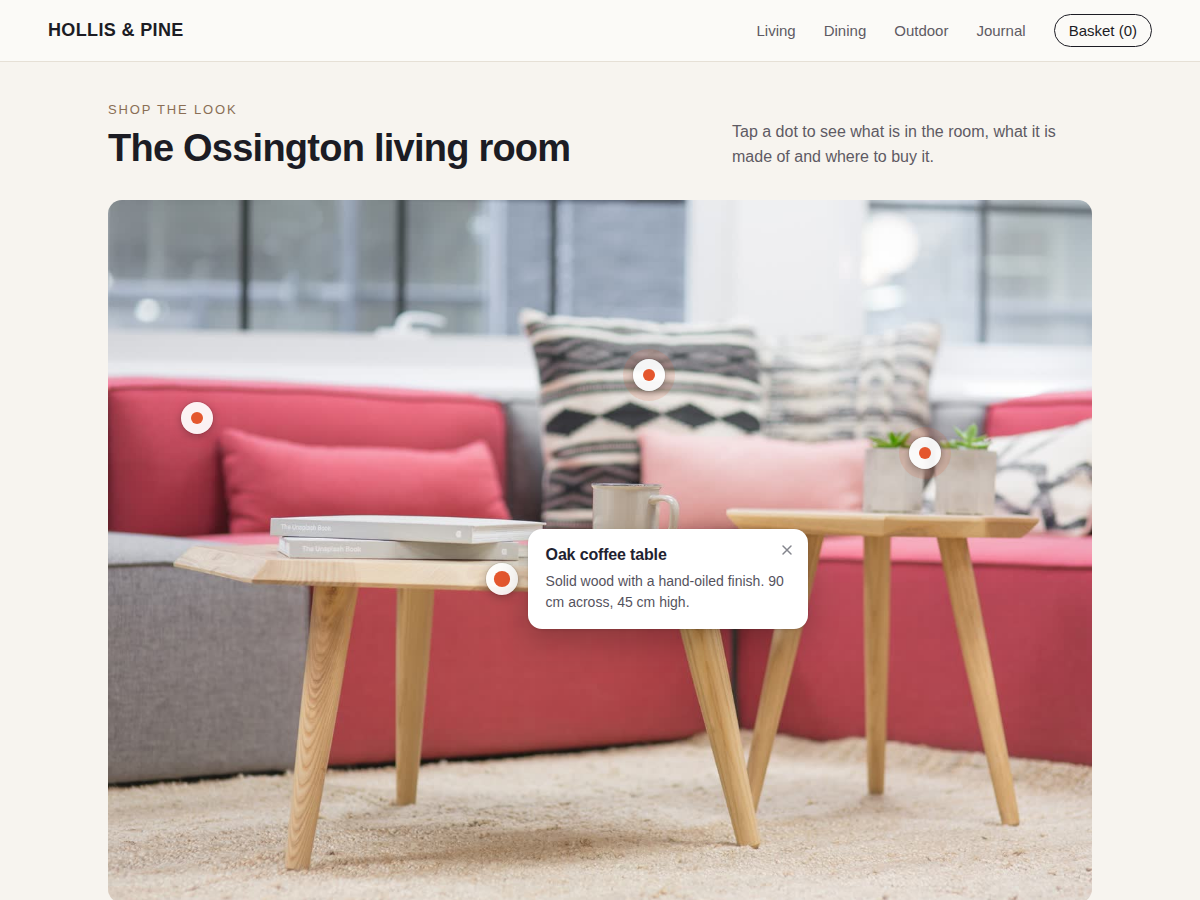
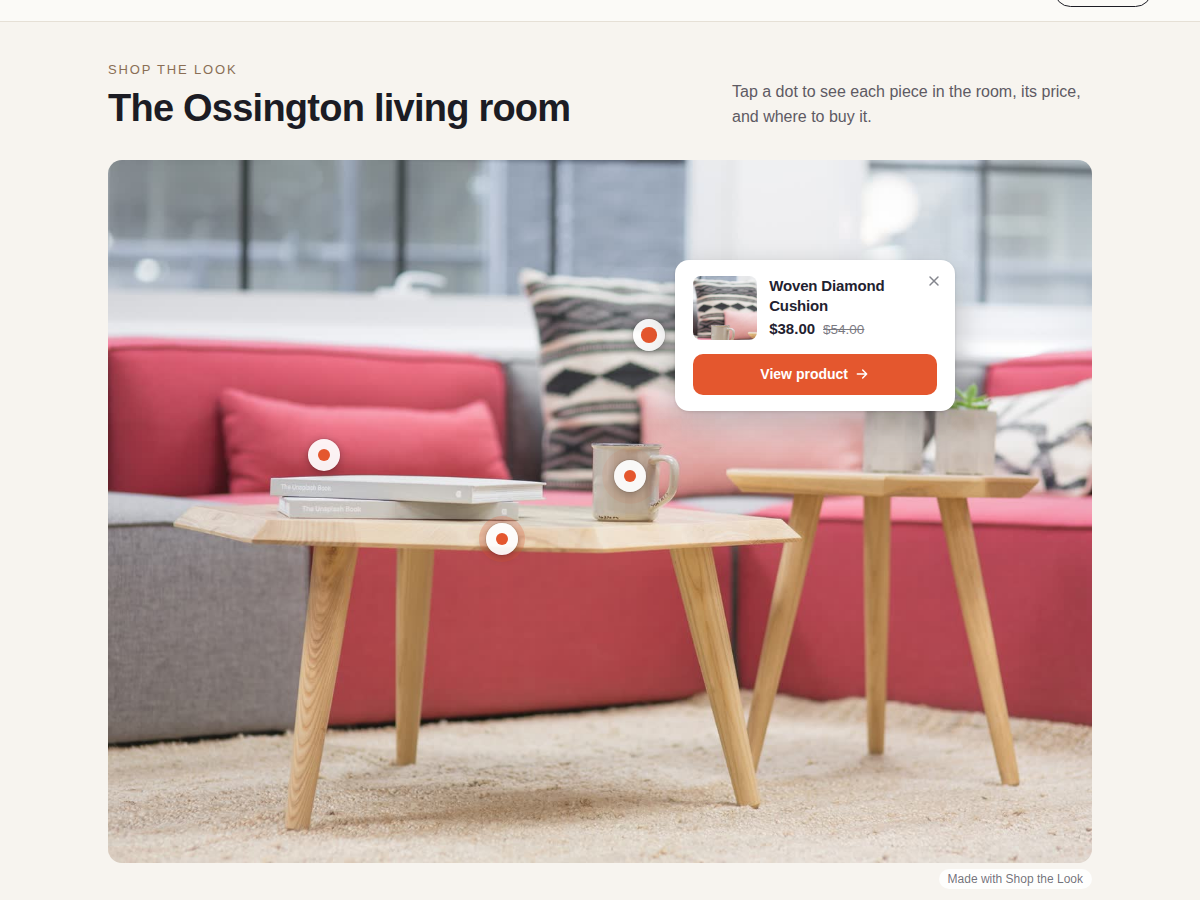
Shop the Look (pinspot): page and legal pages for store-product pins

diff --git a/wix/index.html b/wix/index.html
@@ -20,5 +20,5 @@
 <header><a href="../"><img src="../mark.svg" width="22" height="22" alt="" style="vertical-align:-4px"> Prometheus</a> · <a href="../wix/">Wix apps</a></header>
 <h1>Small Wix apps that fill the gaps</h1>
 <p class="mut">Each one does a single job that Wix's own apps leave to you, usually something people ask for on Wix's feature request pages. Free plan on every app.</p>
-<div class="apps"><a class="appc" href="bulk-coupon-manager/"><img src="bulk-coupon-manager/icon.png" width="48" height="48" alt=""><div><b>Coupon Forge</b><span class="mut">Bulk unique coupon codes, sent to each customer</span><br><span class="st live">Live</span></div></a><a class="appc" href="booking-caps/"><img src="booking-caps/icon.png" width="48" height="48" alt=""><div><b>Booking Caps</b><span class="mut">Limit bookings per day, week or month</span><br><span class="st live">Live</span></div></a><a class="appc" href="day-sheet/"><img src="day-sheet/icon.png" width="48" height="48" alt=""><div><b>Day Sheet</b><span class="mut">Print today&#x27;s bookings and class rosters</span><br><span class="st live">Live</span></div></a><a class="appc" href="payday/"><img src="payday/icon.png" width="48" height="48" alt=""><div><b>Payday</b><span class="mut">Work out staff pay from bookings, line by line</span><br><span class="st live">Live</span></div></a><a class="appc" href="roll-call/"><img src="roll-call/icon.png" width="48" height="48" alt=""><div><b>Roll Call</b><span class="mut">Check members in at the front desk and see their plan, payment and today&#x27;s class</span><br><span class="st live">Live</span></div></a><a class="appc" href="form-pdf/"><img src="form-pdf/icon.png" width="48" height="48" alt=""><div><b>Form PDF</b><span class="mut">Branded PDFs of form submissions, in bulk</span><br><span class="st live">Live</span></div></a><a class="appc" href="menu-limits/"><img src="menu-limits/icon.png" width="48" height="48" alt=""><div><b>Menu Limits</b><span class="mut">Cap dishes per order and per pickup day</span><br><span class="st live">Live</span></div></a><a class="appc" href="loyalty-rules/"><img src="loyalty-rules/icon.png" width="48" height="48" alt=""><div><b>Loyalty Rules</b><span class="mut">Loyalty points on renewals, back on refunds</span><br><span class="st live">Live</span></div></a><a class="appc" href="program-enroll/"><img src="program-enroll/icon.png" width="48" height="48" alt=""><div><b>Program Enroll</b><span class="mut">Enroll event guests and buyers in online courses</span><br><span class="st live">Live</span></div></a><a class="appc" href="program-loader/"><img src="program-loader/icon.png" width="48" height="48" alt=""><div><b>Program Loader</b><span class="mut">Import courses and quiz questions from a CSV</span><br><span class="st live">Live</span></div></a><a class="appc" href="membership-extender/"><img src="membership-extender/icon.png" width="48" height="48" alt=""><div><b>Membership Extender</b><span class="mut">Extend or pause many membership plans at once</span><br><span class="st live">Live</span></div></a><a class="appc" href="class-quorum/"><img src="class-quorum/icon.png" width="48" height="48" alt=""><div><b>Class Quorum</b><span class="mut">Cancel classes that miss a minimum, in one click</span><br><span class="st live">Live</span></div></a><a class="appc" href="event-series/"><img src="event-series/icon.png" width="48" height="48" alt=""><div><b>Event Series</b><span class="mut">Copy events to new dates and bulk edit many</span><br><span class="st live">Live</span></div></a><a class="appc" href="guest-sheets/"><img src="guest-sheets/icon.png" width="48" height="48" alt=""><div><b>Guest Sheets</b><span class="mut">One guest sheet for many events, your columns</span><br><span class="st live">Live</span></div></a><a class="appc" href="comment-alerts/"><img src="comment-alerts/icon.png" width="48" height="48" alt=""><div><b>Comment Alerts</b><span class="mut">Get an email when someone comments</span><br><span class="st live">Live</span></div></a><a class="appc" href="blog-backup/"><img src="blog-backup/icon.png" width="48" height="48" alt=""><div><b>Blog Backup</b><span class="mut">Back up every blog post as a ZIP file</span><br><span class="st live">Live</span></div></a><a class="appc" href="guest-posts/"><img src="guest-posts/icon.png" width="48" height="48" alt=""><div><b>Guest Posts</b><span class="mut">Readers submit blog posts, you approve drafts</span><br><span class="st live">Live</span></div></a><a class="appc" href="room-guard/"><img src="room-guard/icon.png" width="48" height="48" alt=""><div><b>Room Guard</b><span class="mut">Stop double booking a shared room or studio</span><br><span class="st live">Live</span></div></a><a class="appc" href="typeline/"><img src="typeline/icon.png" width="48" height="48" alt=""><div><b>Typeline</b><span class="mut">Animated typing text with rotating words</span><br><span class="st live">Live</span></div></a><a class="appc" href="privacyrequests/"><img src="privacyrequests/icon.png" width="48" height="48" alt=""><div><b>Privacy Requests</b><span class="mut">A privacy request form and DPO contact card</span><br><span class="st live">Live</span></div></a><a class="appc" href="graphlet/"><img src="graphlet/icon.png" width="48" height="48" alt=""><div><b>Graphlet</b><span class="mut">Bar, line, pie and donut charts for any page</span><br><span class="st live">Live</span></div></a><a class="appc" href="flipwise/"><img src="flipwise/icon.png" width="48" height="48" alt=""><div><b>Flipwise</b><span class="mut">Flip cards and flip boxes with a front and back</span><br><span class="st live">Live</span></div></a><a class="appc" href="pinspot/"><img src="pinspot/icon.png" width="48" height="48" alt=""><div><b>Pinspot</b><span class="mut">Clickable image hotspots with popup cards</span><br><span class="st">Coming soon</span></div></a><a class="appc" href="timegrid/"><img src="timegrid/icon.png" width="48" height="48" alt=""><div><b>Timegrid</b><span class="mut">Weekly class timetable and schedule for any page</span><br><span class="st live">Live</span></div></a><a class="appc" href="kudoline/"><img src="kudoline/icon.png" width="48" height="48" alt=""><div><b>Kudoline</b><span class="mut">Testimonial slider and grid with star ratings</span><br><span class="st live">Live</span></div></a><a class="appc" href="hintly/"><img src="hintly/icon.png" width="48" height="48" alt=""><div><b>Hintly</b><span class="mut">Hover tooltips that explain words in your text</span><br><span class="st live">Live</span></div></a><a class="appc" href="stepwell/"><img src="stepwell/icon.png" width="48" height="48" alt=""><div><b>Stepwell</b><span class="mut">Show how it works in clear numbered steps</span><br><span class="st live">Live</span></div></a><a class="appc" href="milestones/"><img src="milestones/icon.png" width="48" height="48" alt=""><div><b>Milestones</b><span class="mut">Show your milestones and history on a timeline</span><br><span class="st live">Live</span></div></a><a class="appc" href="tallymark/"><img src="tallymark/icon.png" width="48" height="48" alt=""><div><b>Tallymark</b><span class="mut">Live signup counter for your forms and petitions</span><br><span class="st live">Live</span></div></a><a class="appc" href="loyaltyboard/"><img src="loyaltyboard/icon.png" width="48" height="48" alt=""><div><b>Laurel</b><span class="mut">Loyalty leaderboard of your top points members</span><br><span class="st live">Live</span></div></a><a class="appc" href="bizhours/"><img src="bizhours/icon.png" width="48" height="48" alt=""><div><b>Business Hours</b><span class="mut">Opening hours table with a live Open now badge</span><br><span class="st live">Live</span></div></a><a class="appc" href="team/"><img src="team/icon.png" width="48" height="48" alt=""><div><b>Team</b><span class="mut">Team member cards synced from your booking staff</span><br><span class="st">Coming soon</span></div></a><a class="appc" href="plancompare/"><img src="plancompare/icon.png" width="48" height="48" alt=""><div><b>Plan Compare</b><span class="mut">Plan comparison table built from your plans</span><br><span class="st live">Live</span></div></a><a class="appc" href="headcount/"><img src="headcount/icon.png" width="48" height="48" alt=""><div><b>Headcount</b><span class="mut">Live member counter that shows how many joined</span><br><span class="st live">Live</span></div></a><a class="appc" href="murmur/"><img src="murmur/icon.png" width="48" height="48" alt=""><div><b>Murmur</b><span class="mut">Show your readers&#x27; newest comments in a sidebar</span><br><span class="st live">Live</span></div></a><a class="appc" href="mostread/"><img src="mostread/icon.png" width="48" height="48" alt=""><div><b>Most Read</b><span class="mut">Show your popular blog posts, ranked by views</span><br><span class="st live">Live</span></div></a><a class="appc" href="raisemeter/"><img src="raisemeter/icon.png" width="48" height="48" alt=""><div><b>Raisemeter</b><span class="mut">Fundraising thermometer and donation goal bar</span><br><span class="st live">Live</span></div></a><a class="appc" href="tierly/"><img src="tierly/icon.png" width="48" height="48" alt=""><div><b>Tierly</b><span class="mut">Pricing tables and plan comparison for any page</span><br><span class="st live">Live</span></div></a><a class="appc" href="panora/"><img src="panora/icon.png" width="48" height="48" alt=""><div><b>Panora</b><span class="mut">Show 360 panorama photos and virtual tours</span><br><span class="st live">Live</span></div></a><a class="appc" href="regiomap/"><img src="regiomap/icon.png" width="48" height="48" alt=""><div><b>Regiomap</b><span class="mut">Clickable world and US maps, color your regions</span><br><span class="st live">Live</span></div></a><a class="appc" href="donor-receipts/"><img src="donor-receipts/icon.png" width="48" height="48" alt=""><div><b>Donor Receipts</b><span class="mut">Donation receipts and year-end donor statements</span><br><span class="st live">Live</span></div></a><a class="appc" href="plan-dues/"><img src="plan-dues/icon.png" width="48" height="48" alt=""><div><b>Plan Dues</b><span class="mut">Track cash and bank-transfer membership dues</span><br><span class="st live">Live</span></div></a><a class="appc" href="plan-rules/"><img src="plan-rules/icon.png" width="48" height="48" alt=""><div><b>Plan Rules</b><span class="mut">Cap plan sales and set early-bird plan prices</span><br><span class="st live">Live</span></div></a><a class="appc" href="family-plans/"><img src="family-plans/icon.png" width="48" height="48" alt=""><div><b>Family Plans</b><span class="mut">Sell one family membership that covers everyone</span><br><span class="st live">Live</span></div></a><a class="appc" href="loancalc/"><img src="loancalc/icon.png" width="48" height="48" alt=""><div><b>Loan Calculator</b><span class="mut">Monthly loan payment calculator for any page</span><br><span class="st live">Live</span></div></a><a class="appc" href="roicalc/"><img src="roicalc/icon.png" width="48" height="48" alt=""><div><b>ROI Calculator</b><span class="mut">Return on investment and payback for visitors</span><br><span class="st live">Live</span></div></a><a class="appc" href="bmicalc/"><img src="bmicalc/icon.png" width="48" height="48" alt=""><div><b>BMI Calculator</b><span class="mut">BMI calculator: body mass index on any page</span><br><span class="st live">Live</span></div></a><a class="appc" href="caloriecalc/"><img src="caloriecalc/icon.png" width="48" height="48" alt=""><div><b>Calorie Calculator</b><span class="mut">TDEE and macro calculator for fitness sites</span><br><span class="st live">Live</span></div></a><a class="appc" href="snow/"><img src="snow/icon.png" width="48" height="48" alt=""><div><b>Snow</b><span class="mut">Falling snow on every page, on in one click</span><br><span class="st live">Live</span></div></a></div>
+<div class="apps"><a class="appc" href="bulk-coupon-manager/"><img src="bulk-coupon-manager/icon.png" width="48" height="48" alt=""><div><b>Coupon Forge</b><span class="mut">Bulk unique coupon codes, sent to each customer</span><br><span class="st live">Live</span></div></a><a class="appc" href="booking-caps/"><img src="booking-caps/icon.png" width="48" height="48" alt=""><div><b>Booking Caps</b><span class="mut">Limit bookings per day, week or month</span><br><span class="st live">Live</span></div></a><a class="appc" href="day-sheet/"><img src="day-sheet/icon.png" width="48" height="48" alt=""><div><b>Day Sheet</b><span class="mut">Print today&#x27;s bookings and class rosters</span><br><span class="st live">Live</span></div></a><a class="appc" href="payday/"><img src="payday/icon.png" width="48" height="48" alt=""><div><b>Payday</b><span class="mut">Work out staff pay from bookings, line by line</span><br><span class="st live">Live</span></div></a><a class="appc" href="roll-call/"><img src="roll-call/icon.png" width="48" height="48" alt=""><div><b>Roll Call</b><span class="mut">Check members in at the front desk and see their plan, payment and today&#x27;s class</span><br><span class="st live">Live</span></div></a><a class="appc" href="form-pdf/"><img src="form-pdf/icon.png" width="48" height="48" alt=""><div><b>Form PDF</b><span class="mut">Branded PDFs of form submissions, in bulk</span><br><span class="st live">Live</span></div></a><a class="appc" href="menu-limits/"><img src="menu-limits/icon.png" width="48" height="48" alt=""><div><b>Menu Limits</b><span class="mut">Cap dishes per order and per pickup day</span><br><span class="st live">Live</span></div></a><a class="appc" href="loyalty-rules/"><img src="loyalty-rules/icon.png" width="48" height="48" alt=""><div><b>Loyalty Rules</b><span class="mut">Loyalty points on renewals, back on refunds</span><br><span class="st live">Live</span></div></a><a class="appc" href="program-enroll/"><img src="program-enroll/icon.png" width="48" height="48" alt=""><div><b>Program Enroll</b><span class="mut">Enroll event guests and buyers in online courses</span><br><span class="st live">Live</span></div></a><a class="appc" href="program-loader/"><img src="program-loader/icon.png" width="48" height="48" alt=""><div><b>Program Loader</b><span class="mut">Import courses and quiz questions from a CSV</span><br><span class="st live">Live</span></div></a><a class="appc" href="membership-extender/"><img src="membership-extender/icon.png" width="48" height="48" alt=""><div><b>Membership Extender</b><span class="mut">Extend or pause many membership plans at once</span><br><span class="st live">Live</span></div></a><a class="appc" href="class-quorum/"><img src="class-quorum/icon.png" width="48" height="48" alt=""><div><b>Class Quorum</b><span class="mut">Cancel classes that miss a minimum, in one click</span><br><span class="st live">Live</span></div></a><a class="appc" href="event-series/"><img src="event-series/icon.png" width="48" height="48" alt=""><div><b>Event Series</b><span class="mut">Copy events to new dates and bulk edit many</span><br><span class="st live">Live</span></div></a><a class="appc" href="guest-sheets/"><img src="guest-sheets/icon.png" width="48" height="48" alt=""><div><b>Guest Sheets</b><span class="mut">One guest sheet for many events, your columns</span><br><span class="st live">Live</span></div></a><a class="appc" href="comment-alerts/"><img src="comment-alerts/icon.png" width="48" height="48" alt=""><div><b>Comment Alerts</b><span class="mut">Get an email when someone comments</span><br><span class="st live">Live</span></div></a><a class="appc" href="blog-backup/"><img src="blog-backup/icon.png" width="48" height="48" alt=""><div><b>Blog Backup</b><span class="mut">Back up every blog post as a ZIP file</span><br><span class="st live">Live</span></div></a><a class="appc" href="guest-posts/"><img src="guest-posts/icon.png" width="48" height="48" alt=""><div><b>Guest Posts</b><span class="mut">Readers submit blog posts, you approve drafts</span><br><span class="st live">Live</span></div></a><a class="appc" href="room-guard/"><img src="room-guard/icon.png" width="48" height="48" alt=""><div><b>Room Guard</b><span class="mut">Stop double booking a shared room or studio</span><br><span class="st live">Live</span></div></a><a class="appc" href="typeline/"><img src="typeline/icon.png" width="48" height="48" alt=""><div><b>Typeline</b><span class="mut">Animated typing text with rotating words</span><br><span class="st live">Live</span></div></a><a class="appc" href="privacyrequests/"><img src="privacyrequests/icon.png" width="48" height="48" alt=""><div><b>Privacy Requests</b><span class="mut">A privacy request form and DPO contact card</span><br><span class="st live">Live</span></div></a><a class="appc" href="graphlet/"><img src="graphlet/icon.png" width="48" height="48" alt=""><div><b>Graphlet</b><span class="mut">Bar, line, pie and donut charts for any page</span><br><span class="st live">Live</span></div></a><a class="appc" href="flipwise/"><img src="flipwise/icon.png" width="48" height="48" alt=""><div><b>Flipwise</b><span class="mut">Flip cards and flip boxes with a front and back</span><br><span class="st live">Live</span></div></a><a class="appc" href="pinspot/"><img src="pinspot/icon.png" width="48" height="48" alt=""><div><b>Shop the Look</b><span class="mut">Shoppable lookbook photos with live store prices</span><br><span class="st">Coming soon</span></div></a><a class="appc" href="timegrid/"><img src="timegrid/icon.png" width="48" height="48" alt=""><div><b>Timegrid</b><span class="mut">Weekly class timetable and schedule for any page</span><br><span class="st live">Live</span></div></a><a class="appc" href="kudoline/"><img src="kudoline/icon.png" width="48" height="48" alt=""><div><b>Kudoline</b><span class="mut">Testimonial slider and grid with star ratings</span><br><span class="st live">Live</span></div></a><a class="appc" href="hintly/"><img src="hintly/icon.png" width="48" height="48" alt=""><div><b>Hintly</b><span class="mut">Hover tooltips that explain words in your text</span><br><span class="st live">Live</span></div></a><a class="appc" href="stepwell/"><img src="stepwell/icon.png" width="48" height="48" alt=""><div><b>Stepwell</b><span class="mut">Show how it works in clear numbered steps</span><br><span class="st live">Live</span></div></a><a class="appc" href="milestones/"><img src="milestones/icon.png" width="48" height="48" alt=""><div><b>Milestones</b><span class="mut">Show your milestones and history on a timeline</span><br><span class="st live">Live</span></div></a><a class="appc" href="tallymark/"><img src="tallymark/icon.png" width="48" height="48" alt=""><div><b>Tallymark</b><span class="mut">Live signup counter for your forms and petitions</span><br><span class="st live">Live</span></div></a><a class="appc" href="loyaltyboard/"><img src="loyaltyboard/icon.png" width="48" height="48" alt=""><div><b>Laurel</b><span class="mut">Loyalty leaderboard of your top points members</span><br><span class="st live">Live</span></div></a><a class="appc" href="bizhours/"><img src="bizhours/icon.png" width="48" height="48" alt=""><div><b>Business Hours</b><span class="mut">Opening hours table with a live Open now badge</span><br><span class="st live">Live</span></div></a><a class="appc" href="team/"><img src="team/icon.png" width="48" height="48" alt=""><div><b>Team</b><span class="mut">Team member cards synced from your booking staff</span><br><span class="st">Coming soon</span></div></a><a class="appc" href="plancompare/"><img src="plancompare/icon.png" width="48" height="48" alt=""><div><b>Plan Compare</b><span class="mut">Plan comparison table built from your plans</span><br><span class="st live">Live</span></div></a><a class="appc" href="headcount/"><img src="headcount/icon.png" width="48" height="48" alt=""><div><b>Headcount</b><span class="mut">Live member counter that shows how many joined</span><br><span class="st live">Live</span></div></a><a class="appc" href="murmur/"><img src="murmur/icon.png" width="48" height="48" alt=""><div><b>Murmur</b><span class="mut">Show your readers&#x27; newest comments in a sidebar</span><br><span class="st live">Live</span></div></a><a class="appc" href="mostread/"><img src="mostread/icon.png" width="48" height="48" alt=""><div><b>Most Read</b><span class="mut">Show your popular blog posts, ranked by views</span><br><span class="st live">Live</span></div></a><a class="appc" href="raisemeter/"><img src="raisemeter/icon.png" width="48" height="48" alt=""><div><b>Raisemeter</b><span class="mut">Fundraising thermometer and donation goal bar</span><br><span class="st live">Live</span></div></a><a class="appc" href="tierly/"><img src="tierly/icon.png" width="48" height="48" alt=""><div><b>Tierly</b><span class="mut">Pricing tables and plan comparison for any page</span><br><span class="st live">Live</span></div></a><a class="appc" href="panora/"><img src="panora/icon.png" width="48" height="48" alt=""><div><b>Panora</b><span class="mut">Show 360 panorama photos and virtual tours</span><br><span class="st live">Live</span></div></a><a class="appc" href="regiomap/"><img src="regiomap/icon.png" width="48" height="48" alt=""><div><b>Regiomap</b><span class="mut">Clickable world and US maps, color your regions</span><br><span class="st live">Live</span></div></a><a class="appc" href="donor-receipts/"><img src="donor-receipts/icon.png" width="48" height="48" alt=""><div><b>Donor Receipts</b><span class="mut">Donation receipts and year-end donor statements</span><br><span class="st live">Live</span></div></a><a class="appc" href="plan-dues/"><img src="plan-dues/icon.png" width="48" height="48" alt=""><div><b>Plan Dues</b><span class="mut">Track cash and bank-transfer membership dues</span><br><span class="st live">Live</span></div></a><a class="appc" href="plan-rules/"><img src="plan-rules/icon.png" width="48" height="48" alt=""><div><b>Plan Rules</b><span class="mut">Cap plan sales and set early-bird plan prices</span><br><span class="st live">Live</span></div></a><a class="appc" href="family-plans/"><img src="family-plans/icon.png" width="48" height="48" alt=""><div><b>Family Plans</b><span class="mut">Sell one family membership that covers everyone</span><br><span class="st live">Live</span></div></a><a class="appc" href="loancalc/"><img src="loancalc/icon.png" width="48" height="48" alt=""><div><b>Loan Calculator</b><span class="mut">Monthly loan payment calculator for any page</span><br><span class="st live">Live</span></div></a><a class="appc" href="roicalc/"><img src="roicalc/icon.png" width="48" height="48" alt=""><div><b>ROI Calculator</b><span class="mut">Return on investment and payback for visitors</span><br><span class="st live">Live</span></div></a><a class="appc" href="bmicalc/"><img src="bmicalc/icon.png" width="48" height="48" alt=""><div><b>BMI Calculator</b><span class="mut">BMI calculator: body mass index on any page</span><br><span class="st live">Live</span></div></a><a class="appc" href="caloriecalc/"><img src="caloriecalc/icon.png" width="48" height="48" alt=""><div><b>Calorie Calculator</b><span class="mut">TDEE and macro calculator for fitness sites</span><br><span class="st live">Live</span></div></a><a class="appc" href="snow/"><img src="snow/icon.png" width="48" height="48" alt=""><div><b>Snow</b><span class="mut">Falling snow on every page, on in one click</span><br><span class="st live">Live</span></div></a></div>
 </main></body></html>

diff --git a/wix/pinspot/index.html b/wix/pinspot/index.html
@@ -1,9 +1,9 @@
 <!doctype html><html lang="en"><head><meta charset="utf-8"><meta name="viewport" content="width=device-width,initial-scale=1">
-<title>Pinspot: image hotspots and shop-the-look pictures for Wix sites</title>
-<meta name="description" content="Clickable image hotspots with popup cards. A photo says more when people can ask it questions">
+<title>Shop the Look: shoppable images with live store prices for Wix sites</title>
+<meta name="description" content="Shoppable lookbook photos with live store prices. Put your store products on a photo">
 <link rel="canonical" href="https://prometheus-maker.github.io/wix/pinspot/">
 <link rel="icon" href="../../mark.svg" type="image/svg+xml"><link rel="stylesheet" href="../../style.css"><script data-goatcounter="https://prometheus-maker.goatcounter.com/count" async src="https://gc.zgo.at/count.js"></script>
-<meta property="og:title" content="Pinspot: image hotspots and shop-the-look pictures for Wix sites"><meta property="og:description" content="Clickable image hotspots with popup cards. A photo says more when people can ask it questions"><style>
+<meta property="og:title" content="Shop the Look: shoppable images with live store prices for Wix sites"><meta property="og:description" content="Shoppable lookbook photos with live store prices. Put your store products on a photo"><style>
 .app-hero{display:flex;gap:16px;align-items:center;margin:8px 0 4px}.app-hero img{border-radius:14px}
 .cta{display:inline-block;padding:12px 20px;border-radius:10px;font-weight:650;text-decoration:none;margin:12px 0 4px;
  background:linear-gradient(135deg,#FF4D2E,#FF9A1F);color:#17161A}.cta:hover{filter:brightness(1.08)}
@@ -19,19 +19,19 @@
 </head><body><main>
 <header><a href="../../"><img src="../../mark.svg" width="22" height="22" alt="" style="vertical-align:-4px"> Prometheus</a> · <a href="../../wix/">Wix apps</a></header>
 <div class="app-hero"><img src="icon.png" width="64" height="64" alt=""><div>
-<h1 style="margin:0">Pinspot</h1><p class="mut" style="margin:4px 0 0">Clickable image hotspots with popup cards</p></div></div>
+<h1 style="margin:0">Shop the Look</h1><p class="mut" style="margin:4px 0 0">Shoppable lookbook photos with live store prices</p></div></div>
 <span class="soon">Coming to the Wix App Market soon. The link goes here once it is listed.</span>
-<ul class="feat"><li>Dots on any picture, each opening a card</li><li>Click the picture in the panel to place a dot</li><li>Looks finished with the sample before setup</li><li>Cards slide up over the picture on phones</li></ul>
-<img class="shot" src="shot.png" alt="Pinspot dashboard" loading="lazy">
+<ul class="feat"><li>Pin your store products on any photo</li><li>Cards show live price, sale price and stock</li><li>Pick products from a search box in Settings</li><li>Own titles, prices and links without a store</li></ul>
+<img class="shot" src="shot.png" alt="Shop the Look dashboard" loading="lazy">
 <h2>What it does</h2>
-<p>A photo says more when people can ask it questions. Pinspot puts small dots on any picture, and each dot opens a card with a title, a short text and a link. Use it for a room where every piece is for sale, a dish and what is in it, the parts of a product, a team photo or a map of your venue.</p>
-<p>It looks finished the moment you add it: a sample living room with four pulsing dots and white cards. Swap in your own picture and the dots stay where you put them on every screen size.</p>
-<p>Placing a dot is a click. Open Settings, click the spot on the picture in the panel or drag a dot, then type its title and text and add a link to a page or another site. Pick the dot, card and text colours, the corners and your font. The editor shows each change at once.</p>
-<p>On a computer the card opens beside its dot. On a phone it slides up over the bottom of the picture, so nothing is cut off. Dots are real buttons that work with a keyboard and screen readers, and the card text is in your page for search engines.</p>
-<p>The free plan gives you 5 hotspots per picture with no branding. Premium adds up to 40, plus-sign and numbered markers, cards that open on hover, titles next to the dots and a photo in each card.</p>
+<p>Put your store products on a photo. Each pin on the picture opens a card with the product&#x27;s photo, name and current price, and a button to its product page. When a product is on sale, the old price shows struck through. When it sells out, the card says so. You never retype a price: the cards read your store on every page load.</p>
+<p>It looks finished the moment you add it, with a sample living room and three priced pins. Open Settings, choose your own lookbook photo, click where a pin should go, and pick the product from a search box that lists your store. Drag a pin to move it. The editor shows each change at once.</p>
+<p>No store on the site? A pin can also hold your own title, price, text and a link, so it also works for a menu photo or a venue map.</p>
+<p>On a computer the card opens beside its pin. On a phone it slides up over the bottom of the picture. Pins are real buttons that work with a keyboard and screen readers.</p>
+<p>The free plan gives you one picture with up to 4 pins and a small credit link under it. Premium adds more pictures that visitors flip through with arrows, up to 40 pins on each, sale badges, plus and number pins, cards that open on hover, and removes the credit link.</p>
 <h2>Price</h2>
-<div class="plans"><div class="plan"><h3>Free</h3><ul><li>5 hotspots per picture</li><li>Title, text and link in each card</li><li>Dot colour, card colours, font</li><li>No branding on your site</li></ul></div>
-<div class="plan"><h3>Premium</h3><p class="mut" style="margin:0">$5/month, $48/year ($4/month billed yearly)</p><ul><li>Up to 40 hotspots per picture</li><li>Plus-sign and numbered markers</li><li>Cards that open on hover</li><li>Titles next to dots, card photos</li></ul></div></div>
+<div class="plans"><div class="plan"><h3>Free</h3><ul></ul></div>
+<div class="plan"><h3>Premium</h3><p class="mut" style="margin:0">$5/month, yearly $4/month (20% off, $48/year)</p><ul><li>Several pictures with arrows</li><li>Up to 40 pins per picture</li><li>Sale badge, plus and number pins</li><li>Remove the credit link</li></ul></div></div>
 
 <p class="mut"><a href="support.html">Support</a> · <a href="privacy.html">Privacy</a> · <a href="terms.html">Terms</a></p>
 </main></body></html>

diff --git a/wix/pinspot/support.html b/wix/pinspot/support.html
@@ -1,10 +1,10 @@
 <!doctype html><html lang="en"><head><meta charset="utf-8"><meta name="viewport" content="width=device-width,initial-scale=1">
-<title>Support: Pinspot for Wix</title>
-<meta name="description" content="Support for the Pinspot app on Wix.">
+<title>Support: Shop the Look for Wix</title>
+<meta name="description" content="Support for the Shop the Look app on Wix.">
 <link rel="icon" href="../../mark.svg" type="image/svg+xml"><link rel="stylesheet" href="../../style.css">
 </head><body><main>
 <header><a href="../../"><img src="../../mark.svg" width="22" height="22" alt="" style="vertical-align:-4px"> Prometheus</a></header>
-<h1>Support: Pinspot</h1>
+<h1>Support: Shop the Look</h1>
 <p>Support is open to everyone, on the free and the paid plan.</p>
 <h2>How to get help</h2>
 <ul>
@@ -13,22 +13,26 @@
 </ul>
 <h2>Quick answers</h2>
 <h3>Where is the widget?</h3>
-<p>Installing the app adds a sample picture with four hotspots to the page you were on, in its own section. To add another one, open the editor, click Add Elements, then App Widgets (or My Widgets), then Pinspot. Each widget has its own picture and hotspots.</p>
+<p>Installing the app adds a sample picture with three pins to the page you were on, in its own section. To add another one, open the editor, click Add Elements, then App Widgets (or My Widgets), then Shop the Look. Each widget has its own pictures and pins.</p>
+<h3>How do I link a pin to a product?</h3>
+<p>Click the widget, then Settings. Pick the pin, press Choose a product and pick it from the list (type to search your store). The card then shows the product&#x27;s photo, name and price, and a View product button that opens its product page. Products need Wix Stores on the site; hidden products are not listed.</p>
+<h3>Do prices update by themselves?</h3>
+<p>Yes. The widget reads the product from your store on every page load, so a new price, a sale price or a sold-out product shows without touching the widget.</p>
 <h3>How do I use my own picture?</h3>
-<p>Click the widget, then Settings, then Choose from Media. If the media picker does not open, upload the picture to your site&#x27;s Media, open its menu (three dots), choose Copy URL and paste the link into Picture link. Any image link that starts with https:// works.</p>
-<h3>How do I place a hotspot?</h3>
-<p>Pick the hotspot in the list, then click the spot on the picture at the top of the panel. You can also drag any dot. Positions are stored as a share of the picture&#x27;s width and height, so the dots stay on the same spot on phones and large screens.</p>
-<h3>How do I add a link to a hotspot?</h3>
-<p>Use Add link to pick a page of your site, or paste any web address. Links to other sites open in a new tab.</p>
-<h3>Why only 5 hotspots?</h3>
-<p>The free plan shows up to 5 per picture. Premium allows 40.</p>
+<p>Click the widget, then Settings, then Choose from Media. If the media picker does not open, upload the picture to your site&#x27;s Media, open its menu (three dots), choose Copy URL and paste the link into Picture link.</p>
+<h3>How do I place a pin?</h3>
+<p>Pick the pin in the list, then click the spot on the picture at the top of the panel. You can also drag any pin. Positions are stored as a share of the picture&#x27;s width and height, so pins stay on the same spot on phones and large screens.</p>
+<h3>Can I use it without a store?</h3>
+<p>Yes. Leave the product empty and type your own title, price, text and link for the pin.</p>
+<h3>Why only 4 pins and one picture?</h3>
+<p>That is the free plan. Premium allows several pictures (visitors flip through them with arrows) and up to 40 pins on each.</p>
+<h3>What is the small link under the picture?</h3>
+<p>On the free plan a small &quot;Made with Shop the Look&quot; link shows under the widget. Premium removes it.</p>
 <h3>What do visitors see on a phone?</h3>
-<p>The dots shrink a little and the card slides up over the bottom of the picture, so it is never cut off at the edge of the screen.</p>
-<h3>Can it use my site&#x27;s font?</h3>
-<p>Yes, that is the default. Use Change font in Settings to pick a different one, and &quot;Use site font&quot; to go back.</p>
+<p>The pins shrink a little and the card slides up over the bottom of the picture, so it is never cut off at the edge of the screen.</p>
 <h3>What happens if I cancel Premium?</h3>
-<p>The widget keeps working. The first 5 hotspots show as dots that open on click; numbered and plus markers, hover cards, titles next to dots and card photos switch off.</p>
+<p>The widget keeps working with the first picture and its first 4 pins; extra pictures, sale badges, plus and number pins, hover cards and labels switch off and the credit link comes back.</p>
 <h2>Privacy</h2>
-<p>See the privacy policy. In short: the widget shows your picture and text and collects nothing from visitors.</p>
-<p class="mut">Pinspot: <a href="privacy.html">Privacy</a> · <a href="terms.html">Terms</a> · <a href="support.html">Support</a></p>
+<p>See the privacy policy. In short: the widget shows your picture, text and the products you linked, and collects nothing from visitors.</p>
+<p class="mut">Shop the Look: <a href="privacy.html">Privacy</a> · <a href="terms.html">Terms</a> · <a href="support.html">Support</a></p>
 </main></body></html>

diff --git a/wix/pinspot/privacy.html b/wix/pinspot/privacy.html
@@ -1,30 +1,31 @@
 <!doctype html><html lang="en"><head><meta charset="utf-8"><meta name="viewport" content="width=device-width,initial-scale=1">
-<title>Privacy Policy: Pinspot for Wix</title>
-<meta name="description" content="Privacy Policy for the Pinspot app on Wix.">
+<title>Privacy Policy: Shop the Look for Wix</title>
+<meta name="description" content="Privacy Policy for the Shop the Look app on Wix.">
 <link rel="icon" href="../../mark.svg" type="image/svg+xml"><link rel="stylesheet" href="../../style.css">
 </head><body><main>
 <header><a href="../../"><img src="../../mark.svg" width="22" height="22" alt="" style="vertical-align:-4px"> Prometheus</a></header>
-<h1>Privacy Policy: Pinspot</h1>
-<p>Effective date: 2026-11-08</p>
+<h1>Privacy Policy: Shop the Look</h1>
+<p>Effective date: 2026-11-10</p>
 <p>Developer: Prometheus (<a href="https://prometheus-maker.github.io" target="_blank" rel="noopener">https://prometheus-maker.github.io</a>)</p>
 <p>Contact: prometheus.maker@proton.me</p>
-<p>This policy describes what the Pinspot app (&quot;the app&quot;) does with data.</p>
+<p>This policy describes what the Shop the Look app (&quot;the app&quot;) does with data.</p>
 <h2>What the app does</h2>
-<p>The app adds an image hotspots widget to pages of your Wix site. It shows the picture, hotspots, text, links and colours you enter in its settings panel.</p>
+<p>The app adds a shoppable image widget to pages of your Wix site. It shows the picture, pins, text, links and colours you enter in its settings panel, and for pins linked to a product of your Wix Stores store, that product&#x27;s name, price, sale price, main image, product page link and stock state.</p>
 <h2>Data the app handles</h2>
 <ul>
-<li>Widget settings: the picture link, its description, each hotspot&#x27;s position, title, text, link and photo link, colours, font and marker options. Wix stores them with your site, like the settings of any other element.</li>
+<li>Widget settings: the picture links, their descriptions, each pin&#x27;s position, linked product ID, title, price text, text, link and photo link, colours, font and pin options. Wix stores them with your site, like the settings of any other element.</li>
 <li>Pictures: the widget loads your picture from your site&#x27;s Media (or the link you entered). The sample picture comes from the app&#x27;s own files on Wix.</li>
+<li>Store products: the widget and its settings panel ask the app&#x27;s backend on Wix for the products linked to pins (or, in the settings panel, for products matching a search). The backend reads them from your store with the app&#x27;s read-only product permission and returns only what your product pages already show visitors: name, price, sale price, main image, page link and whether it is in stock. Hidden products are never returned. Nothing is stored. The visitor&#x27;s browser may keep the last product details it saw in local storage so prices appear at once on the next visit.</li>
 <li>Plan status: the widget and its settings panel ask the app&#x27;s backend on Wix whether your site is on the free or the paid plan. The backend asks Wix and answers with that one fact and the app instance ID. It stores nothing and keeps no logs of visitors.</li>
 <li>Browser settings: whether you closed the intro box on the app&#x27;s dashboard page, kept in your browser&#x27;s local storage.</li>
 </ul>
 <h2>Site visitors</h2>
-<p>The widget does not set cookies, does not track visitors and does not collect anything they do. It only shows your picture and its cards.</p>
+<p>The widget does not set cookies, does not track visitors and does not collect anything they do. It only shows your picture and its cards. The free plan shows a small &quot;Made with Shop the Look&quot; link to the app&#x27;s page on the Wix App Market; it is a plain link and tracks nothing.</p>
 <h2>Where the data goes</h2>
 <p>Nowhere outside Wix, except that a picture link you paste from another website is loaded from that website by the visitor&#x27;s browser. The developer never receives your settings or anything about your visitors, and nothing is shared with anyone else.</p>
 <h2>Changes</h2>
 <p>If this policy changes, the new version is posted at this address with a new effective date.</p>
 <h2>Contact</h2>
 <p>Questions: prometheus.maker@proton.me.</p>
-<p class="mut">Pinspot: <a href="privacy.html">Privacy</a> · <a href="terms.html">Terms</a> · <a href="support.html">Support</a></p>
+<p class="mut">Shop the Look: <a href="privacy.html">Privacy</a> · <a href="terms.html">Terms</a> · <a href="support.html">Support</a></p>
 </main></body></html>

diff --git a/wix/pinspot/terms.html b/wix/pinspot/terms.html
@@ -1,17 +1,17 @@
 <!doctype html><html lang="en"><head><meta charset="utf-8"><meta name="viewport" content="width=device-width,initial-scale=1">
-<title>Terms of Use: Pinspot for Wix</title>
-<meta name="description" content="Terms of Use for the Pinspot app on Wix.">
+<title>Terms of Use: Shop the Look for Wix</title>
+<meta name="description" content="Terms of Use for the Shop the Look app on Wix.">
 <link rel="icon" href="../../mark.svg" type="image/svg+xml"><link rel="stylesheet" href="../../style.css">
 </head><body><main>
 <header><a href="../../"><img src="../../mark.svg" width="22" height="22" alt="" style="vertical-align:-4px"> Prometheus</a></header>
-<h1>Terms of Use: Pinspot</h1>
-<p>Effective date: 2026-11-08</p>
+<h1>Terms of Use: Shop the Look</h1>
+<p>Effective date: 2026-11-10</p>
 <p>Developer: Prometheus (<a href="https://prometheus-maker.github.io" target="_blank" rel="noopener">https://prometheus-maker.github.io</a>)</p>
 <p>Contact: prometheus.maker@proton.me</p>
 <h2>1. What you get</h2>
-<p>Pinspot is a Wix app with a site widget that shows a picture with clickable hotspots, each opening a card with a title, text and an optional link. You install it from the Wix App Market and set it up in the Wix editor.</p>
+<p>Shop the Look is a Wix app with a site widget that shows a picture with clickable pins, each opening a card with a store product (name, price, image, page link) or your own title, price, text and link. You install it from the Wix App Market and set it up in the Wix editor.</p>
 <h2>2. Plans and payment</h2>
-<p>The free plan shows up to 5 hotspots per picture. The paid plan adds up to 40 hotspots, plus-sign and numbered markers, cards that open on mouse hover, titles next to the markers and a photo in each card. Wix sells the paid plan, charges you, and handles renewals, cancellations and refunds under the Wix App Market terms. Prices are shown on the app&#x27;s Wix App Market page. If the paid plan ends, the widget keeps working with the free plan&#x27;s options.</p>
+<p>The free plan shows one picture with up to 4 pins and a small credit link. The paid plan adds more pictures, up to 40 pins per picture, sale badges, plus-sign and numbered pins, cards that open on mouse hover, titles next to the pins, and removes the credit link. Wix sells the paid plan, charges you, and handles renewals, cancellations and refunds under the Wix App Market terms. Prices are shown on the app&#x27;s Wix App Market page. If the paid plan ends, the widget keeps working with the free plan&#x27;s options.</p>
 <h2>3. Your responsibilities</h2>
 <p>You are responsible for the pictures, text and links you put in the widget and for having the right to publish them.</p>
 <h2>4. No warranty</h2>
@@ -20,5 +20,5 @@
 <p>To the extent the law allows, the developer is not liable for indirect or consequential losses from using the app. Total liability is limited to what you paid for the app in the last 12 months.</p>
 <h2>6. Changes and contact</h2>
 <p>These terms may change; the new version is posted at this address with a new effective date. Questions: prometheus.maker@proton.me.</p>
-<p class="mut">Pinspot: <a href="privacy.html">Privacy</a> · <a href="terms.html">Terms</a> · <a href="support.html">Support</a></p>
+<p class="mut">Shop the Look: <a href="privacy.html">Privacy</a> · <a href="terms.html">Terms</a> · <a href="support.html">Support</a></p>
 </main></body></html>
